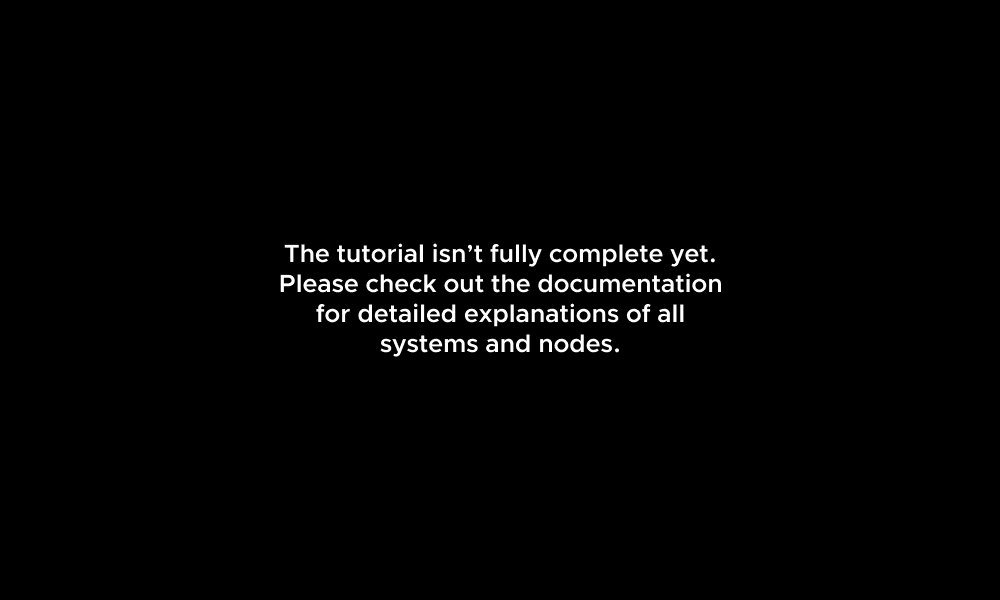
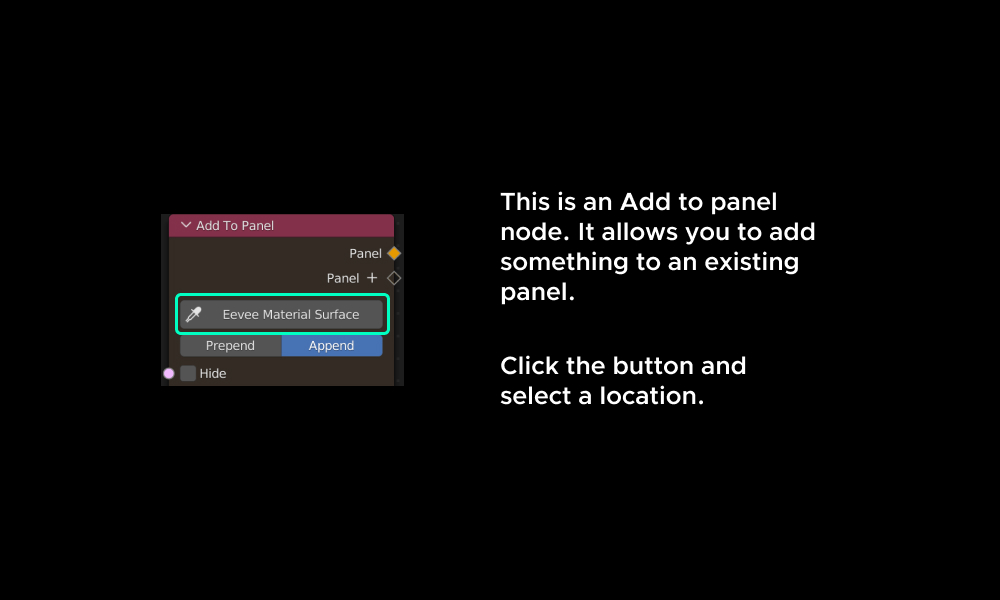
added full tutorial

Changed region(s): [[0.155, 0.3, 0.837, 0.69]]

diff --git a/nodes/tutorial.py b/nodes/tutorial.py
@@ -1,4 +1,5 @@
 import bpy
+import re
 import gpu
 import bgl
 from gpu_extras.batch import batch_for_shader
@@ -67,11 +68,15 @@ class SN_OT_SetTutorial(bpy.types.Operator):
         return {"FINISHED"}
 
 
+def num_sort(test_string):
+    return list(map(int, re.findall(r'\d+', test_string)))[0]
+
 def load_images():
     images = []
     for file in os.listdir(os.path.join(os.path.dirname(os.path.dirname(__file__)), "assets", "tutorial")):
         if file.split(".")[-1] == "jpg":
             images.append(file)
+    images.sort(key=num_sort)
     return images
 
 shader = None
@@ -142,6 +147,14 @@ class SN_TutorialNode(bpy.types.Node, SN_ScriptingBaseNode):
         ("Overview", "0.jpg"),
         ("UI", "4.jpg"),
         ("Nodes", "6.jpg"),
+        ("Interface", "9.jpg"),
+        ("Execute", "10.jpg"),
+        ("Data", "12.jpg"),
+        ("Variables", "13.jpg"),
+        ("Blender Data", "14.jpg"),
+        ("Properties", "16.jpg"),
+        ("Operators", "17.jpg"),
+        ("Export", "18.jpg"),
     ]
     
     
@@ -205,7 +218,7 @@ class SN_TutorialNode(bpy.types.Node, SN_ScriptingBaseNode):
         row.label(text=self.current_chapter())
         
         CHAPTER_INDEX = 1
-        ADVENTURE_INDEX = 999
+        ADVENTURE_INDEX = 8
         
         if self.index == ADVENTURE_INDEX:
             col = layout.column()
